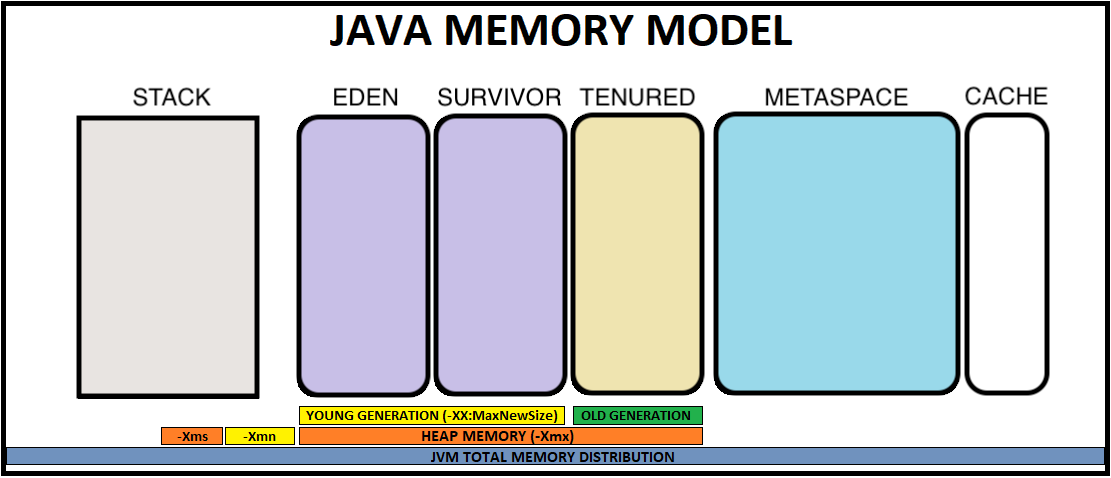
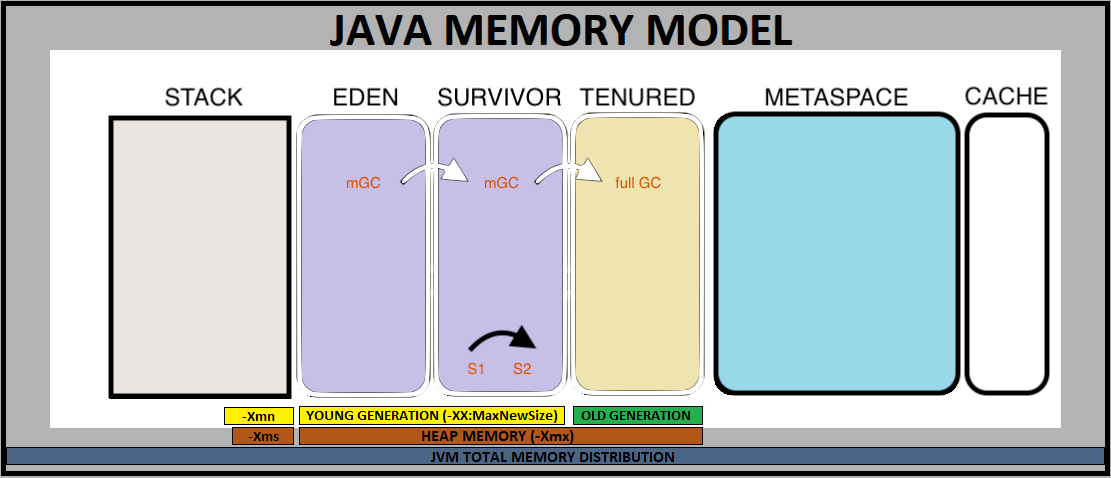
feat(post): updated post jvm memory model

diff --git a/content/posts/java-memory-model/index.md b/content/posts/java-memory-model/index.md
@@ -1,6 +1,6 @@
 ---
-title: Java Memory Model and Garbage Collection
-cover: ./java-6.jpg
+title: Everything about JVM, Java Memory Model and Garbage Collection
+cover: ./java-7.jpg
 date: 2020-07-12
 description: 
 tags: ['post', 'java']
@@ -8,30 +8,50 @@ draft: false
 ---
 
 
+#### Java Virtual Machine Technology
+
+The JDK provides one or more implementations of the Java™ virtual machine (VM):  
+- On platforms typically used for client applications, the JDK comes with a VM implementation called the Java HotSpot™ Client VM (client VM). The client VM is tuned for reducing start-up time and memory footprint. It can be invoked by using the -client command-line option when launching an application.
+- On all platforms, the JDK comes with an implementation of the Java virtual machine called the Java HotSpot Server VM (server VM). The server VM is designed for maximum program execution speed. It can be invoked by using the -server command-line option when launching an application.
+Some features of Java HotSpot technology, common to both VM implementations, are the following.
+
+  - Adaptive compiler - Applications are launched using a standard interpreter, but the code is then analyzed as it runs to detect performance bottlenecks, or "hot spots". The Java HotSpot VMs compile those performance-critical portions of the code for a boost in performance, while avoiding unnecessary compilation of seldom-used code (most of the program). The Java HotSpot VMs also use the adaptive compiler to decide, on the fly, how best to optimize compiled code with techniques such as in-lining. The runtime analysis performed by the compiler allows it to eliminate guesswork in determining which optimizations will yield the largest performance benefit.
+  - Rapid memory allocation and garbage collection - Java HotSpot technology provides for rapid memory allocation for objects, and it offers a choice of fast, efficient, state-of-the-art garbage collectors.
+  - Thread synchronization - The Java programming language allows for use of multiple, concurrent paths of program execution (called "threads"). Java HotSpot technology provides a thread-handling capability that is designed to scale readily for use in large, shared-memory multiprocessor servers.
+Tools
+
+#### Java Memory Model
+
 **JVM** requires some memory for its functioning. This memory is consumed from the available memory on host OS. This can be managed programmatically by providing it in startup parameters to jvm. Inside JVM, there exist separate memory spaces **(Heap, Non-Heap, and Cache)** in order to store runtime data and compiled code.
 
 ![java-memory](./jvm-mem.png)
+
+- In the image shown above for Java Memory Model:
+  - Heap Space: Eden + Survivor + Tenured
+  - Non-Heap Space: Stack + MetaSpace + Reserved (Not shown here)
+  - Cache
+
 
 #### Heap Memory
 
 This is the place where objects live. Prior to Java 8, we have Permanent Generation also as part of Heap. But Java 8 onwards, this has been replaced with a non-heap memory named as MetaSpace. After Java 8, Heap Space is divided into below two parts:
 
 - #### Young Generation
-The young generation is the place where all the new objects are created. When the young generation is filled, garbage collection is performed. This garbage collection is called Minor GC. Young Generation is divided into three parts – **Eden and two Survivor(S1, S2) Memory Spaces**.
+The Young Generation is the place where all the new objects are created. When this young generation is filled, garbage collection is performed. This garbage collection is called Minor GC. Young Generation is divided into three parts – **Eden and two Survivor(S1, S2) Memory Spaces**.
 
   - Most of the newly created objects are located in the Eden memory space. 
   - When Eden space is filled with objects, Minor GC is performed and all the survivor objects are moved to one of the survivor spaces.
   - Minor GC also checks the survivor objects and move them to the other survivor space. So at a time, one of the survivor space is always empty.
 
 - #### Old Generation
-Objects that are survived after many cycles of GC, are moved to the Old generation memory space. Usually, it’s done by setting a threshold for the age of the young generation objects before they become eligible to promote to Old generation.
+Objects that are survived after many cycles of GC, are moved to the Old Generation memory space, also known as **Tenured Space**. Usually, it’s done by setting a threshold for the age of the young generation objects before they become eligible to be promoted to Old generation.
 
 Followings are some JVM memory configurations when running resource-intensive Java programs.
 >
-- -XmsSetting - initial Heap size
-- -Xmn -  size of Young Generation, rest of the space goes for Old Generation.
-- -XmxSetting - maximum Heap size
-- -XX:NewSizeSetting - new generation heap size
+- -Xms`value` - minimum or initial Heap size
+- -Xmx`value` - maximum Heap size
+- -Xmn`value` - size of Young Generation, rest of the space goes for Old Generation.
+- -XX:NewSize=`size` - new generation heap size
 - -XX:MaxNewSizeSetting - maximum New generation heap size
 - -XX:MaxPermGenSetting - maximum size of Permanent generation
 - -XX:SurvivorRatioSetting - new heap size ratios (e.g. if Young Gen size is 10m and memory switch is –XX:SurvivorRatio=2, then 5m will be reserved for Eden space and 2.5m each for both Survivor spaces, default value = 8)
@@ -51,6 +71,9 @@ This memory is used for execution of a thread and it contains method specific va
 
   MetaSpace is not a contiguous memory and can auto increase its size up to the limit that underlying OS allows, whereas Perm Gen always has a fixed maximum size. As long as the classloader is alive, the metadata remains alive in the Metaspace and can’t be freed.
 
+- #### Reserved Space
+  Jvm has its some reserved memory space for variety of purposes.
+
 #### Code Cache
 
   Code Cache is cache memory, that is used for the storage of compiled native codes generated by JIT compiler, JVM internal structures, loaded profiler agent code and data, etc.
@@ -61,7 +84,7 @@ Unlike languages like C, C++, where developers have to take care of the memory m
 
 Its a thread running in background that looks into all the objects in memory and find out that are not referenced by any part of the program to mark them for GC. All these marked Objects are deleted, and the space is reclaimed for allocation to other objects.
 
-Garbage Collection is Generational, in **Young Generation**, minor Garbage Collection runs and in **Old Generation**, the full Garbage Collection runs.
+Garbage Collection is Generational, the gc that runs in **Young Generation** is called minor Garbage Collection and the one that runs in **Old Generation**, is called the full Garbage Collection.
 
 Full Garbage collection is more expensive in terms of resources, as deleting live objects from Old Generation requires more efforts and is slower, compared to deleting unreferenced objects from Young Generation. Therefore full GC's are **“Stop the World”** events because all application threads are stopped until the operation completes.
 
@@ -79,11 +102,24 @@ There are five types of garbage collection that we can use in our applications. 
 
 - **G1 Garbage Collector (-XX:+UseG1GC):** The Garbage First or G1 garbage collector is available from Java 7 and its long term goal is to replace the CMS collector. The G1 collector is a parallel, concurrent, and incrementally compacting low-pause garbage collector. Garbage First Collector doesn’t work like other collectors and there is no concept of Young and Old generation space. It divides the heap space into multiple equal-sized heap regions. When a garbage collection is invoked, it first collects the region with lesser live data, hence “Garbage First”. You can find more details about it at Garbage-First Collector Oracle Documentation.
 
-Below is a brief overview of Hotspot JVM Architecture:
+#### Brief overview of Hotspot JVM Architecture:
 
 ![java-hotspot](./java-hotspot.png)
 
-Few Important Resources that can be checked out:
 
-[Oracle JavaSE VM Options](https://www.oracle.com/java/technologies/javase/vmoptions-jsp.html)
-[Oracle JVM Troubleshooting Memory](https://www.oracle.com/webfolder/technetwork/tutorials/mooc/JVM_Troubleshooting/week1/lesson1.pdf)
+>
+##### Sources: 
+>
+Orcale JDK Documentations
+>
+Few More Important Resources that can be checked out:
+   - [Table for Oracle JavaSE VM Options (SE 7 and Earlier)](https://www.oracle.com/java/technologies/javase/vmoptions-jsp.html)
+   - [All Java Hotspot VM command line flags for Java 8](https://docs.oracle.com/javase/8/docs/technotes/tools/unix/java.html)
+   - [All Java Hotspot VM command line flags for Java 7](https://docs.oracle.com/javase/7/docs/technotes/tools/solaris/java.html)
+   - [Oracle JVM Troubleshooting Memory](https://www.oracle.com/webfolder/technetwork/tutorials/mooc/JVM_Troubleshooting/week1/lesson1.pdf)
+   - [Sun Java System Application Server Enterprise Edition 8.2 Performance Tuning Guide](https://docs.oracle.com/cd/E19900-01/819-4742/index.html)
+   - [Guidelines for Java SE 8.2 Heap Sizing](https://docs.oracle.com/cd/E19900-01/819-4742/abeij/index.html)
+   - [Java SE 8.2 Heap Tuning Parameters](https://docs.oracle.com/cd/E19900-01/819-4742/abeik/index.html)
+   - [All Java Platform, Standard Edition Documentation](https://docs.oracle.com/en/java/javase/index.html)
+   - [JDK 14 Documentation](https://docs.oracle.com/en/java/javase/14/)
+
